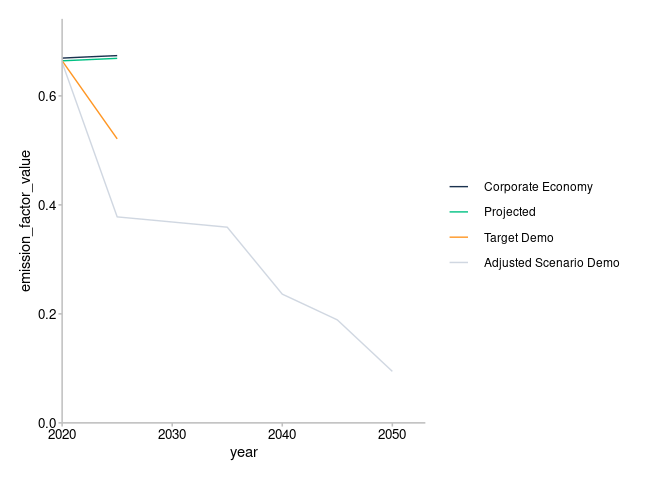
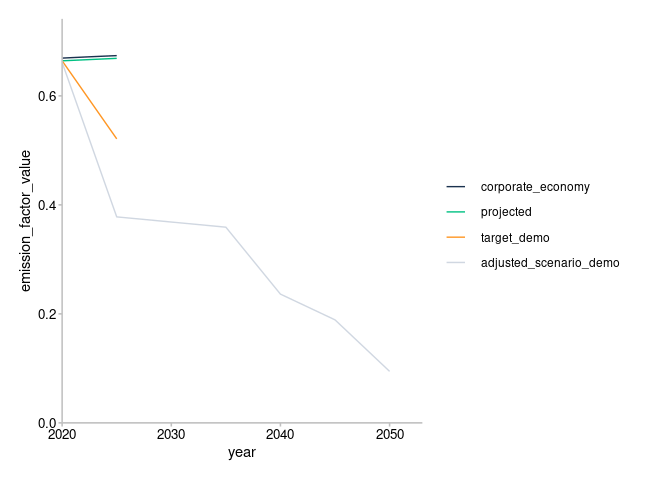
plot_emission_intensity() now plots metric as is

diff --git a/NEWS.md b/NEWS.md
@@ -1,6 +1,7 @@
 # r2dii.plot (development version)
 
-* `plot_trajectory()` now plots legend labels from `metric` "as is" (#346).
+* `plot_emisison_intensity()` and `plot_trajectory()` now plot legend labels
+from `metric` "as is" (#346).
 
 * Error messages now more closely follow the tidyverse style guide (#324).  
 
